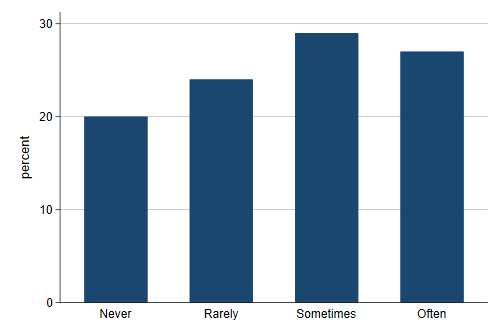
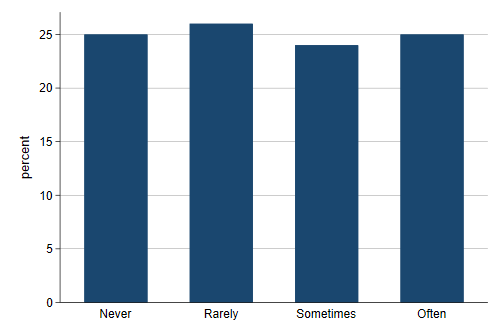
clarifications

diff --git a/myposts/why-Excel-is-a-bad-format-for-storing-data.html b/myposts/why-Excel-is-a-bad-format-for-storing-data.html
@@ -49,7 +49,7 @@ table tbody:last-child tr:last-child td {border-bottom:1px solid black;}
 <div id="header">
 <h1 class="title">Why Excel Is A Bad Format For Storing Data</h1>
 <h2 class="author">Andy Grogan-Kaylor</h2>
-<h3 class="date">14 Jan 2021 15:58:21</h3>
+<h3 class="date">18 Feb 2021 14:36:40</h3>
 </div>
 <style>h1 {color: #00274C;} h2 {color: #2F65A7;} blockquote {border-left: 5px solid #ffcb05; margin: 1.5em 10px; padding: 0.5em 10px;} code {color: red;}</style>
 <h1 id="setup">Setup</h1>
@@ -59,6 +59,10 @@ table tbody:last-child tr:last-child td {border-bottom:1px solid black;}
 <pre class='stata'>. set obs 100 // 100 observations
 number of observations (_N) was 0, now 100
 </pre>
+<pre class='stata'>. generate id = _n // id variable
+</pre>
+<pre class='stata'>. label variable id "id"
+</pre>
 <pre class='stata'>. generate Q1 = runiformint(1,4) // randomly simulated Question 1
 </pre>
 <pre class='stata'>. label variable Q1 "How often do you feel happy?" // add variable label
@@ -67,10 +71,46 @@ number of observations (_N) was 0, now 100
 </pre>
 <pre class='stata'>. label values Q1 Likert1 // add value label to Q1
 </pre>
+<h1 id="describe-the-data">Describe The Data</h1>
+<pre class='stata'>. describe
+
+Contains data
+  obs:           100                          
+ vars:             2                          
+──────────────────────────────────────────────────────────────────────────────────────────────────────────────────────────────────────────────────────
+              storage   display    value
+variable name   type    format     label      variable label
+──────────────────────────────────────────────────────────────────────────────────────────────────────────────────────────────────────────────────────
+id              float   %9.0g                 id
+Q1              float   %9.0g      Likert1    How often do you feel happy?
+──────────────────────────────────────────────────────────────────────────────────────────────────────────────────────────────────────────────────────
+Sorted by: 
+     Note: Dataset has changed since last saved.
+</pre>
+<h1 id="list-out-a-sample-of-the-data">List Out A Sample Of The Data</h1>
+<pre class='stata'>. list in 1/10
+
+     ┌────────────────┐
+     │ id          Q1 │
+     ├────────────────┤
+  1. │  1      Rarely │
+  2. │  2   Sometimes │
+  3. │  3       Often │
+  4. │  4       Often │
+  5. │  5   Sometimes │
+     ├────────────────┤
+  6. │  6      Rarely │
+  7. │  7       Often │
+  8. │  8   Sometimes │
+  9. │  9       Often │
+ 10. │ 10      Rarely │
+     └────────────────┘
+</pre>
 <h1 id="descriptive-statistics-and-bar-graph">Descriptive Statistics and Bar Graph</h1>
 <blockquote>
 <p>Notice how the descriptive statistics and graph are informative in that they contain information on the <em>variable name</em> and <em>value label</em>. These help us to get an intuitive sense of the information in the data.</p>
 </blockquote>
+<h2 id="descriptive-statistics">Descriptive Statistics</h2>
 <pre class='stata'>. tabulate Q1
 
   How often │
@@ -79,11 +119,12 @@ do you feel │
 ────────────┼───────────────────────────────────
       Never │         20       20.00       20.00
      Rarely │         24       24.00       44.00
-  Sometimes │         29       29.00       73.00
-      Often │         27       27.00      100.00
+  Sometimes │         23       23.00       67.00
+      Often │         33       33.00      100.00
 ────────────┼───────────────────────────────────
       Total │        100      100.00
 </pre>
+<h2 id="bar-graph">Bar Graph</h2>
 <pre class='stata'>. graph bar, over(Q1) scheme(michigan)
 </pre>
 <pre class='stata'>. graph export mybar1.png, width(500) replace
@@ -102,17 +143,19 @@ do you feel │
 <blockquote>
 <p>Notice how the descriptive statistics and graph are much less informative. The information on variable label and value label will have to be added back into the data when preparing a report for dissemination.</p>
 </blockquote>
+<h2 id="descriptive-statistics-1">Descriptive Statistics</h2>
 <pre class='stata'>. tabulate Q1
 
          Q1 │      Freq.     Percent        Cum.
 ────────────┼───────────────────────────────────
           1 │         20       20.00       20.00
           2 │         24       24.00       44.00
-          3 │         29       29.00       73.00
-          4 │         27       27.00      100.00
+          3 │         23       23.00       67.00
+          4 │         33       33.00      100.00
 ────────────┼───────────────────────────────────
       Total │        100      100.00
 </pre>
+<h2 id="bar-graph-1">Bar Graph</h2>
 <pre class='stata'>. graph bar, over(Q1) scheme(michigan)
 </pre>
 <pre class='stata'>. graph export mybar2.png, width(500) replace
